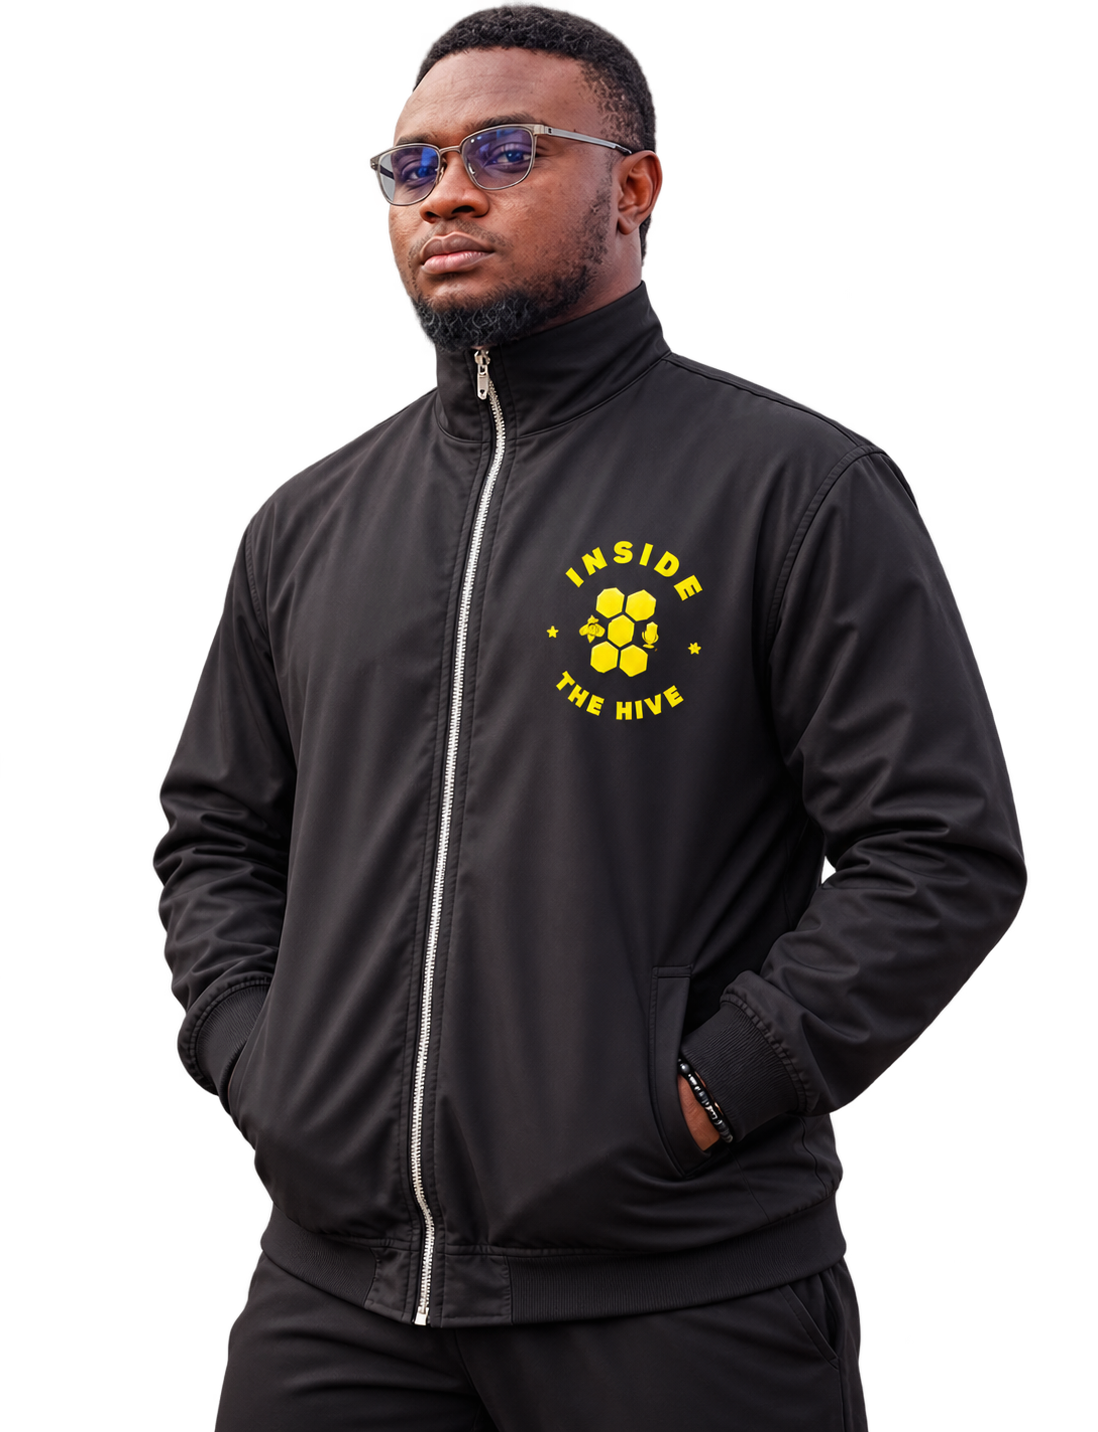
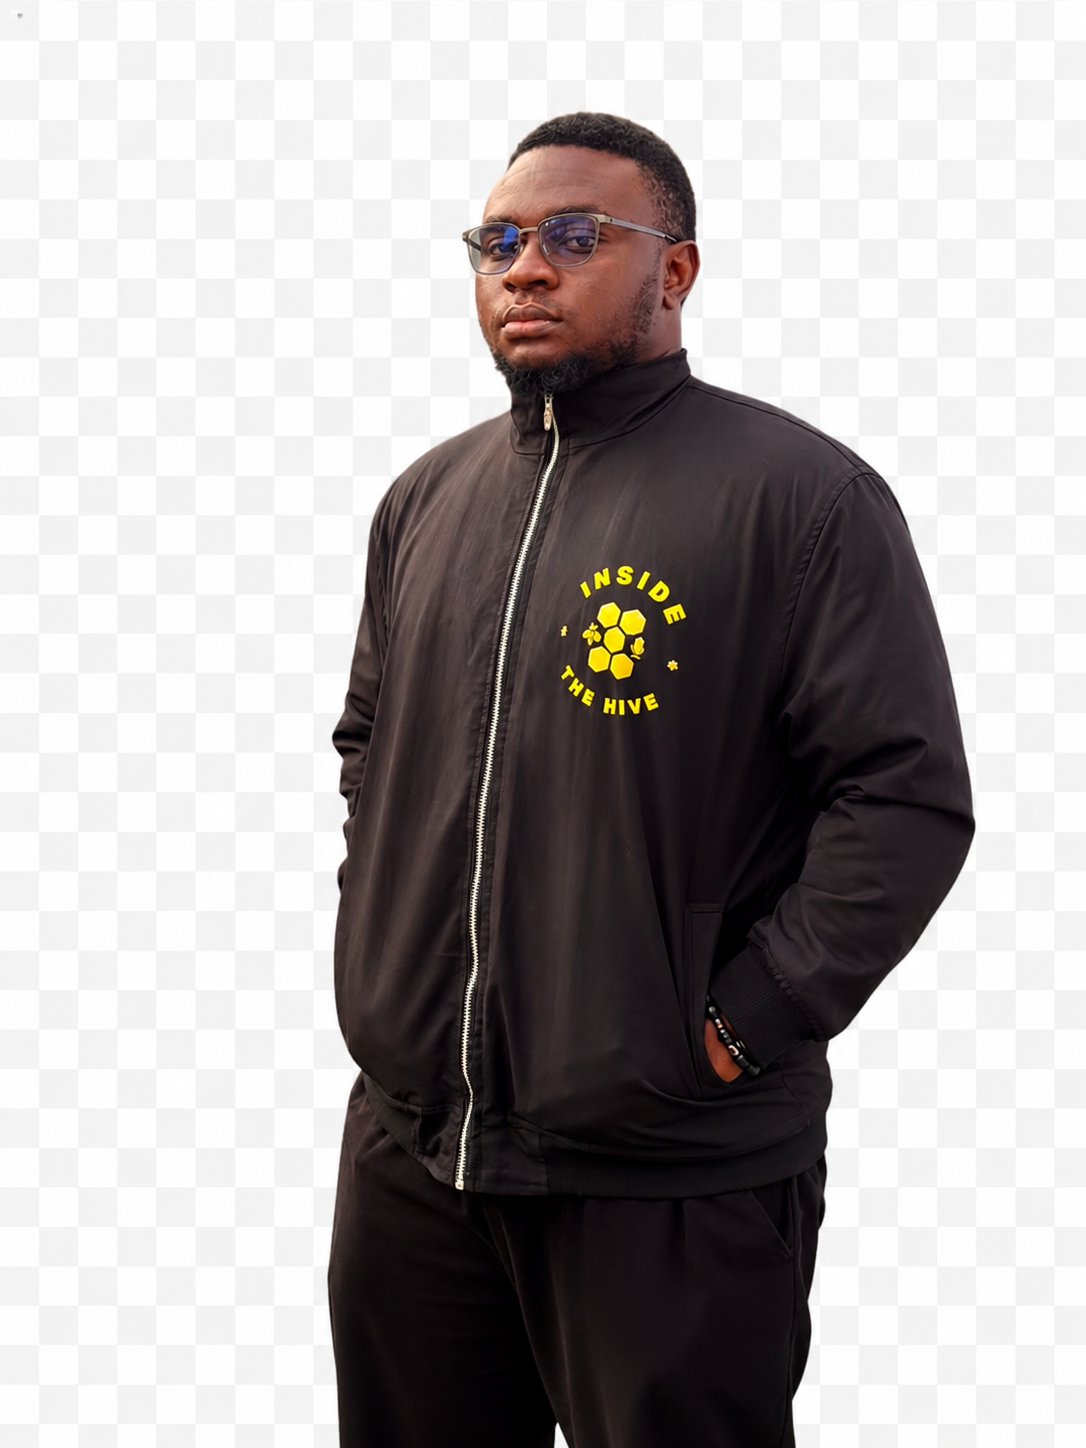
fix: crew row holds together at seven people
Three faults, one root: the row assumed things about its portraits that
the two new ones did not satisfy.

Snazzy and the replaced Deon both arrived with their studio backgrounds
intact, so each rendered as a pale rectangle sitting on top of its
panel. scripts/build-crew.mjs now prepares every portrait the same way —
flood-fill the background inward from the edges where one is present,
trim to the subject, then pad onto one shared aspect ratio anchored to
the bottom. The fill is edge-connected, so light pixels enclosed by the
subject (a lens, a logo, a white tee) are never reached. Originals stay
in /public untouched; processed files go to /public/crew.

The shared ratio is what fixes the uneven sizing. The layout gives every
person an identical box and fits the portrait with `object-contain`,
which scales to whichever axis runs out first — so Snazzy's 0.515 crop
rendered visibly smaller than the row's 0.65 median, and subjects cropped
at different heights stood at different levels. Normalising at the source
removes both instead of correcting them per person in the component.
Measured after: identical 374x383 boxes, zero height spread, and the only
remaining vertical variation is the intended alternating lift.

The row's own width was hardcoded at 26% per item, sized for five. Seven
items overflowed both gutters — the first figure was pushed off the left
edge and the last past the right, which is what made the section look
[…]

diff --git a/src/components/home/Team.tsx b/src/components/home/Team.tsx
@@ -170,6 +170,41 @@ const FIGURE_SCALE = 1;
  */
 const SLANT = "polygon(30% 0, 100% 0, 70% 100%, 0 100%)";
 
+/**
+ * How far each item overlaps its neighbour on each side, as a share of its own
+ * width. Mirrors the `-mx-[5%]` on the item.
+ */
+const OVERLAP = 0.05;
+
+/**
+ * How much of the track the row is allowed to occupy.
+ *
+ * Over 100 by design. Two things pull the visible composition inward from its
+ * own box: the panels are cut on a slant, so the outermost ones taper away
+ * from the row's edges, and each portrait is fitted with `object-contain`
+ * inside a box wider than the person. A row sized to exactly fill the track
+ * therefore reads as floating in the middle of the section. The section clips
+ * horizontally, so the excess trims cleanly at the gutter — which is also what
+ * gives the row its cropped, continuous look.
+ */
+const TRACK_FILL = 138;
+
+/**
+ * Item width for a row of `count` people, as a percentage of the track.
+ *
+ * Each item overlaps its neighbours by OVERLAP on both sides, so a row of n
+ * spans n x w x (1 - 2 x OVERLAP) + 2 x OVERLAP x w rather than n x w.
+ * Solving that for w at the target fill gives a row that stays the same width
+ * whatever the headcount — only the figures get narrower as people are added.
+ *
+ * Derived rather than hardcoded because the fixed 26% this replaces was sized
+ * for five people: at seven the row ran past both gutters, pushing the first
+ * figure off the left edge and the last past the right.
+ */
+function crewWidth(count: number) {
+  return (TRACK_FILL / (count * (1 - 2 * OVERLAP) + 2 * OVERLAP)).toFixed(3);
+}
+
 export function Team() {
   const members = team.filter((member) => member.photo);
   if (members.length === 0) return null;
@@ -183,7 +218,7 @@ export function Team() {
       <div className="u-gutter">
         <div className="flex flex-wrap items-baseline justify-between gap-4">
           <h2 id="team-heading" className="text-(length:--text-h2) font-normal">
-            The <span className="font-script">Dream</span> Team
+            <span className="font-script">Meet </span>The <span className="font-script">Dream</span> Team
           </h2>
         </div>
 
@@ -200,7 +235,17 @@ export function Team() {
         {/* Centred once the row fits: the items overlap heavily, so the group
             is far narrower than four full-width columns and would otherwise
             sit hard against the left gutter with its first figure clipped. */}
-        <ul className="-mx-[var(--spacing-gutter)] flex items-start overflow-x-auto px-[var(--spacing-gutter)] pt-[7%] pb-2 [scrollbar-width:none] md:mx-0 md:justify-center md:overflow-visible md:px-0 md:pb-0">
+        <ul
+          className="-mx-[var(--spacing-gutter)] flex items-start overflow-x-auto px-[var(--spacing-gutter)] pt-[7%] pb-2 [scrollbar-width:none] md:mx-0 md:justify-center md:overflow-visible md:px-0 md:pb-0"
+          // Item width is derived from how many people are in the row, not
+          // fixed. Each item overlaps its neighbours by OVERLAP on both sides,
+          // so n items occupy n x (w - 2 x OVERLAP) + 2 x OVERLAP of track. Solving
+          // that for the full width and capping it keeps the row inside the
+          // gutter at any headcount: at the hardcoded 26% the sixth and
+          // seventh people pushed the first off the left edge and the last
+          // past the right.
+          style={{ ["--crew-w" as string]: `${crewWidth(members.length)}%` }}
+        >
           {members.map((member, index) => {
             const pending = isPending(member.name);
 
@@ -214,7 +259,7 @@ export function Team() {
                 // front of their neighbour, which is what the ascending
                 // z-index resolves. Hover jumps above every static value so
                 // the scaling portrait is never clipped.
-                className="group relative -mx-[5%] w-[62%] shrink-0 hover:z-20 sm:w-[38%] md:w-[26%]"
+                className="group relative -mx-[5%] w-[62%] shrink-0 hover:z-20 sm:w-[38%] md:w-(--crew-w)"
                 // `translateY`, not `top`: a percentage `top` on a relative
                 // item resolves against the containing block's height, and the
                 // flex row's height is derived from these items — so the

diff --git a/content/team.ts b/content/team.ts
@@ -39,18 +39,27 @@ export type TeamMember = {
  * against an angled colour panel, so a photo with its original background
  * would sit as a rectangle on top of that panel and lose the effect entirely.
  *
- * Cutting out happens before the file lands here; it is not something the site
- * can do to an arbitrary photograph. Each file is then trimmed to its
- * subject's alpha bounding box (the `-trim` suffix) so the image's edges are
- * the person's edges — without that, two portraits exported on different
- * canvases render at different scales and sit off their panels.
+ * Every file here comes from `scripts/build-crew.mjs`, which cuts the studio
+ * background where one is still present, trims to the subject, and then pads
+ * each portrait onto one shared aspect ratio anchored to the bottom edge.
+ *
+ * The shared ratio is what keeps the row even. The layout gives each person an
+ * identical box and fits the image with `object-contain`, which scales to
+ * whichever axis runs out first — so a portrait trimmed to a narrower box than
+ * its neighbours renders smaller, and one cropped at a different height stands
+ * at a different level. Normalising at the source removes both problems
+ * instead of correcting them per person in the component.
+ *
+ * Originals stay in /public untouched; the processed files live in
+ * /public/crew. To add or replace someone: drop the photograph in /public,
+ * add it to the SET in the script, run it, and point `photo` at the result.
  */
 export const team: TeamMember[] = [
   {
     name: "Feezy",
     role: "Founder",
     labelAt: "top",
-    photo: "/feezy-trim.png",
+    photo: "/crew/feezy.png",
   },
   {
     name: "Anya The Brand",
@@ -58,41 +67,37 @@ export const team: TeamMember[] = [
     labelAt: "bottom",
     // Used as supplied — already cut out and framed like the others, so it
     // needs no trimming pass.
-    photo: "/anya.png",
+    photo: "/crew/anya.png",
   },
   {
     name: "Cynthia",
     role: "Content Lead",
     labelAt: "top",
-    photo: "/cynthia-trim.png",
+    photo: "/crew/cynthia.png",
   },
   {
     name: "DannyYak",
     role: "Marketing",
     labelAt: "bottom",
-    photo: "/danny-trim.png",
+    photo: "/crew/danny.png",
   },
   {
     name: "Divine",
     role: "Social Media",
     labelAt: "top",
-    photo: "/divine-trim.png",
+    photo: "/crew/divine.png",
   },
   {
     name: "Snazzy",
     role: "Legal",
     labelAt: "bottom",
-    // TODO(client): supplied with its background intact, unlike the other
-    // portraits. It seats on the panel as a rectangle rather than as a
-    // figure standing against it. Replace with a cut-out on a transparent
-    // ground, trimmed to the subject, and the row reads consistently.
-    photo: "/snazzy.png",
+    photo: "/crew/snazzy.png",
   },
   {
     name: "Deon",
     role: "Tech",
     labelAt: "top",
-    photo: "/Deon.png",
+    photo: "/crew/deon.png",
   },
 ];
 
